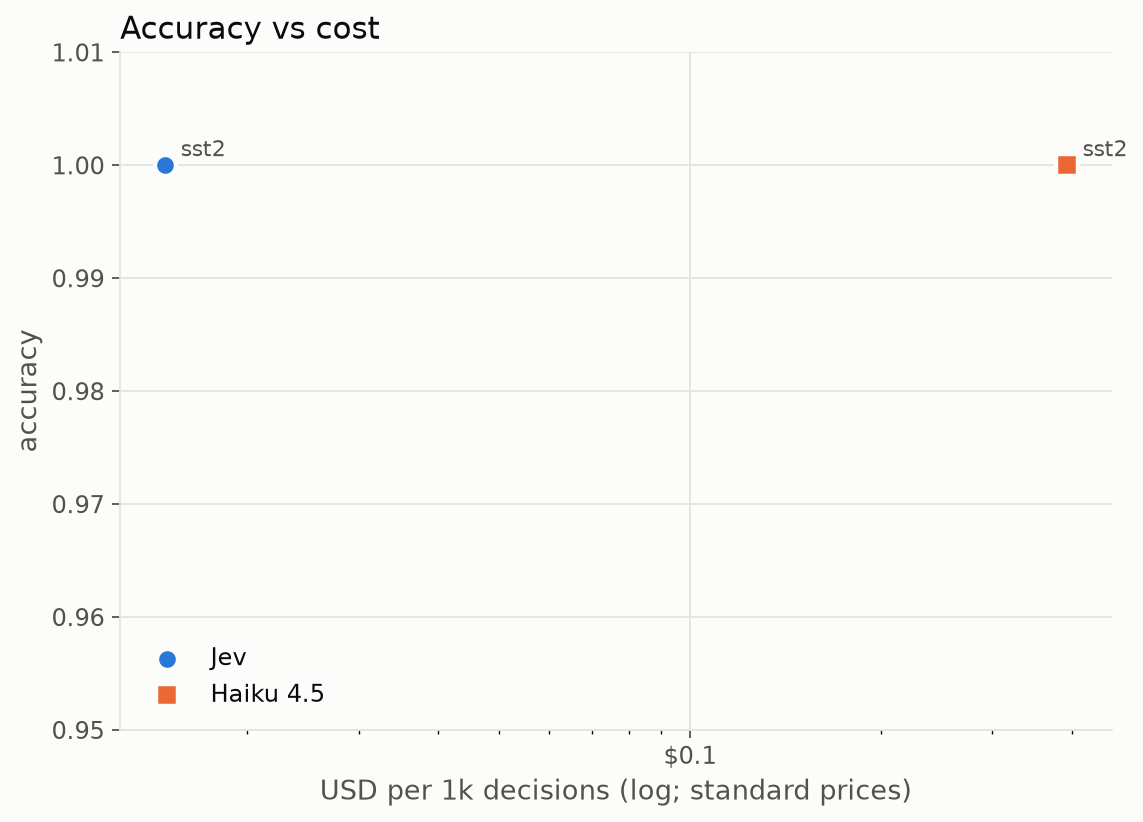
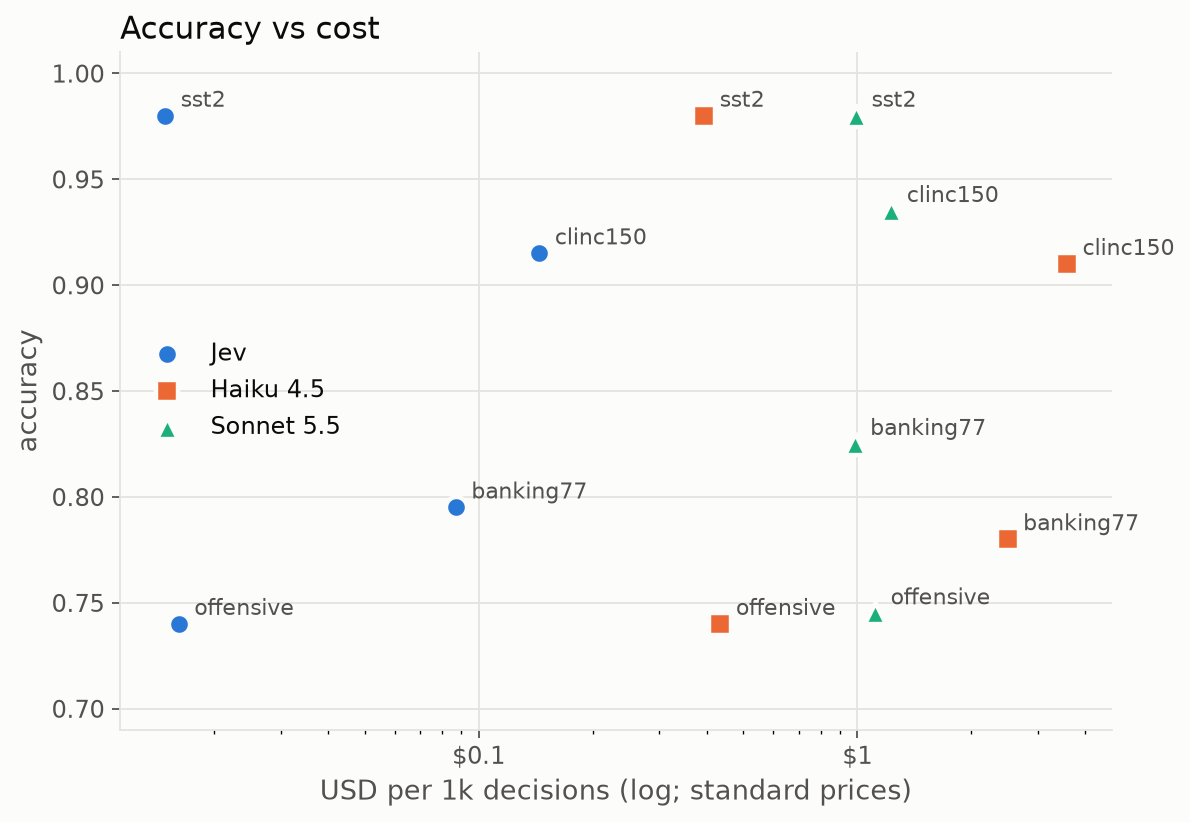
Add full accuracy results for Jev, Haiku 4.5 and Sonnet 5.5 (200 per dataset)
- results/summary.csv, summary.md and charts from the 200-example batch runs
- Spend ledger at $1.12 of the $4.00 cap
- Reliability chart: background box behind the per-panel stats text

diff --git a/src/jev_bench/report.py b/src/jev_bench/report.py
@@ -291,7 +291,8 @@ def reliability_chart(units: list[Unit], dataset: str, n_bins: int, out: Path) -
             0.03, 0.97,
             f"ECE {M.ece(conf, corr, n_bins):.3f}\nhard ≥0.99: {M.hard_share(conf):.0%}\n"
             f"n = {conf.size}",
-            transform=ax.transAxes, va="top", fontsize=11, color=TEXT,
+            transform=ax.transAxes, va="top", fontsize=11, color=TEXT, zorder=5,
+            bbox={"facecolor": SURFACE, "edgecolor": GRID, "boxstyle": "round", "alpha": 0.9},
         )  # fmt: skip
         hx = fig.add_subplot(grid[1, j], sharex=ax)
         _style_axes(hx)

diff --git a/results/summary.md b/results/summary.md
@@ -4,11 +4,39 @@ Accuracy and macro-F1 count failures as wrong. Calibration metrics use answered
 predictions. Brier is top-label. 95% CIs: percentile bootstrap (1000 resamples). Cost per 1k decisions from logged usage.
 Claude has no native probabilities here: its confidence is *verbalized* or *self-consistency*, a weaker signal than Jev's distribution.
 
+## banking77
+
+| model (confidence) | n | accuracy [95% CI] | macro-F1 | ECE [95% CI] | MCE | Brier | AUROC | wrong@≥0.8 | wrong@≥0.9 | hard ≥0.99 | failures | $/1k std | $/1k batch |
+|---|---|---|---|---|---|---|---|---|---|---|---|---|---|
+| Jev (native max-prob) | 200 | 79.5% [74.0%, 85.0%] | 0.780 | 0.116 [0.080, 0.170] | 0.445 | 0.130 | 0.847 | 9.0% | 4.5% | 56.5% | 0.0% | $0.087 | n/a |
+| Jev (API confidence) | 200 | 79.5% [74.0%, 85.0%] | 0.780 | 0.116 [0.081, 0.172] | 0.435 | 0.129 | 0.846 | 9.0% | 4.5% | 56.5% | 0.0% | $0.087 | n/a |
+| Haiku 4.5 (verbalized) | 200 | 78.0% [72.0%, 83.0%] | 0.772 | 0.090 [0.063, 0.155] | 0.350 | 0.150 | 0.809 | 9.0% | 3.5% | 0.5% | 0.0% | $2.492 | $1.246 |
+| Sonnet 5.5 (verbalized) | 200 | 82.5% [77.5%, 88.0%] | 0.821 | 0.095 [0.065, 0.143] | 0.800 | 0.110 | 0.854 | 3.5% | 1.5% | 0.0% | 0.0% | $0.983 | $0.492 |
+
+## clinc150
+
+| model (confidence) | n | accuracy [95% CI] | macro-F1 | ECE [95% CI] | MCE | Brier | AUROC | wrong@≥0.8 | wrong@≥0.9 | hard ≥0.99 | failures | $/1k std | $/1k batch |
+|---|---|---|---|---|---|---|---|---|---|---|---|---|---|
+| Jev (native max-prob) | 200 | 91.5% [87.5%, 95.5%] | 0.883 | 0.044 [0.028, 0.082] | 0.460 | 0.054 | 0.902 | 4.0% | 2.5% | 63.5% | 0.0% | $0.145 | n/a |
+| Jev (API confidence) | 200 | 91.5% [87.5%, 95.5%] | 0.883 | 0.044 [0.028, 0.082] | 0.460 | 0.054 | 0.901 | 4.0% | 2.5% | 63.5% | 0.0% | $0.145 | n/a |
+| Haiku 4.5 (verbalized) | 200 | 91.0% [86.5%, 94.5%] | 0.872 | 0.020 [0.014, 0.062] | 0.450 | 0.073 | 0.717 | 7.0% | 4.0% | 5.0% | 0.0% | $3.577 | $1.788 |
+| Sonnet 5.5 (verbalized) | 200 | 93.5% [90.0%, 97.0%] | 0.910 | 0.056 [0.038, 0.085] | 0.500 | 0.050 | 0.857 | 2.0% | 1.5% | 3.0% | 0.0% | $1.229 | $0.614 |
+
+## offensive
+
+| model (confidence) | n | accuracy [95% CI] | macro-F1 | ECE [95% CI] | MCE | Brier | AUROC | wrong@≥0.8 | wrong@≥0.9 | hard ≥0.99 | failures | $/1k std | $/1k batch |
+|---|---|---|---|---|---|---|---|---|---|---|---|---|---|
+| Jev (native max-prob) | 200 | 74.0% [68.0%, 80.0%] | 0.701 | 0.180 [0.135, 0.245] | 0.352 | 0.212 | 0.672 | 16.5% | 12.5% | 37.0% | 0.0% | $0.016 | n/a |
+| Jev (API confidence) | 200 | 74.0% [68.0%, 80.0%] | 0.701 | 0.201 [0.161, 0.267] | 0.760 | 0.229 | 0.672 | 12.5% | 8.5% | 22.5% | 0.0% | $0.016 | n/a |
+| Haiku 4.5 (verbalized) | 200 | 74.0% [68.0%, 80.0%] | 0.666 | 0.157 [0.107, 0.213] | 0.303 | 0.196 | 0.733 | 18.0% | 8.0% | 12.5% | 0.0% | $0.435 | $0.217 |
+| Sonnet 5.5 (verbalized) | 200 | 74.5% [68.0%, 80.5%] | 0.685 | 0.119 [0.077, 0.178] | 0.620 | 0.172 | 0.771 | 15.0% | 5.0% | 15.0% | 0.0% | $1.114 | $0.557 |
+
 ## sst2
 
 | model (confidence) | n | accuracy [95% CI] | macro-F1 | ECE [95% CI] | MCE | Brier | AUROC | wrong@≥0.8 | wrong@≥0.9 | hard ≥0.99 | failures | $/1k std | $/1k batch |
 |---|---|---|---|---|---|---|---|---|---|---|---|---|---|
-| Jev (native max-prob) | 20 | 100.0% [100.0%, 100.0%] | 1.000 | 0.038 [0.011, 0.073] | 0.230 | 0.006 | n/a | 0.0% | 0.0% | 60.0% | 0.0% | $0.015 | n/a |
-| Jev (API confidence) | 20 | 100.0% [100.0%, 100.0%] | 1.000 | 0.077 [0.021, 0.147] | 0.520 | 0.026 | n/a | 0.0% | 0.0% | 50.0% | 0.0% | $0.015 | n/a |
-| Haiku 4.5 (verbalized) | 20 | 100.0% [100.0%, 100.0%] | 1.000 | 0.144 [0.102, 0.196] | 0.450 | 0.031 | n/a | 0.0% | 0.0% | 10.0% | 0.0% | $0.393 | $0.197 |
+| Jev (native max-prob) | 200 | 98.0% [96.0%, 99.5%] | 0.980 | 0.023 [0.013, 0.046] | 0.380 | 0.022 | 0.575 | 2.0% | 1.5% | 71.5% | 0.0% | $0.015 | n/a |
+| Jev (API confidence) | 200 | 98.0% [96.0%, 99.5%] | 0.980 | 0.047 [0.031, 0.073] | 0.760 | 0.031 | 0.575 | 1.5% | 1.5% | 65.0% | 0.0% | $0.015 | n/a |
+| Haiku 4.5 (verbalized) | 200 | 98.0% [96.0%, 99.5%] | 0.980 | 0.086 [0.065, 0.104] | 0.350 | 0.032 | 0.687 | 1.5% | 0.5% | 3.5% | 0.0% | $0.394 | $0.197 |
+| Sonnet 5.5 (verbalized) | 200 | 98.0% [96.0%, 99.5%] | 0.980 | 0.070 [0.052, 0.090] | 0.400 | 0.029 | 0.733 | 1.0% | 1.0% | 7.5% | 0.0% | $0.992 | $0.496 |
 
